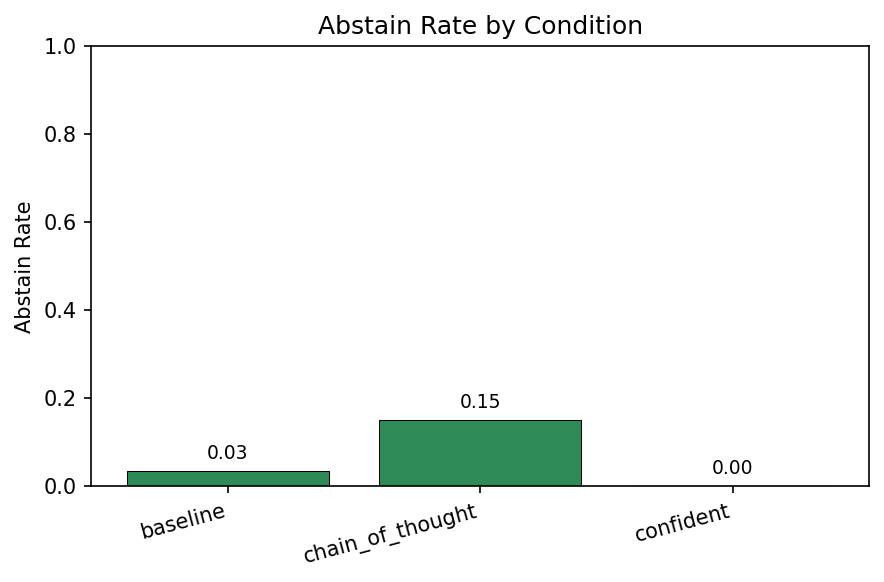
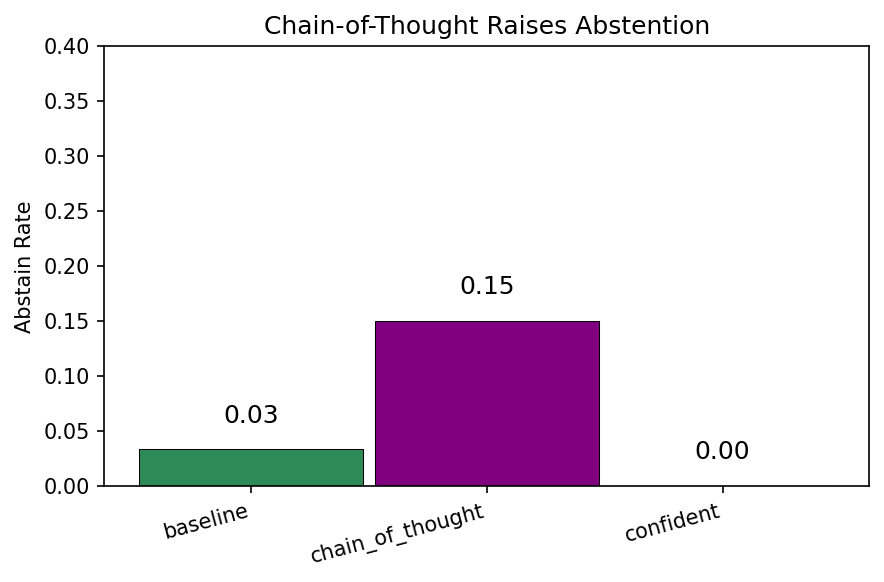
Style charts for stronger visual impact
Update analyze.py chart styling with stronger titles, highlighted condition colors, wider bars, larger value labels, and tighter y-axis scaling for key rates. Regenerate plots from existing scored.csv and sync refreshed chart assets to docs/images for README and Pages.

Made-with: Cursor

diff --git a/src/analyze.py b/src/analyze.py
@@ -39,16 +39,33 @@ def compute_summary(df):
     return pd.DataFrame(rows)
 
 
-def plot_bar(ax, conditions, values, title, ylabel, color="steelblue"):
+def plot_bar(ax, conditions, values, title, ylabel, color="steelblue", bar_width=0.8, y_max=1.0):
     x = range(len(conditions))
-    ax.bar(x, values, color=color, edgecolor="black", linewidth=0.5)
+    if isinstance(color, (list, tuple)):
+        colors = color
+    else:
+        colors = [color] * len(conditions)
+    ax.bar(x, values, width=bar_width, color=colors, edgecolor="black", linewidth=0.5)
     ax.set_xticks(x)
     ax.set_xticklabels(conditions, rotation=15, ha="right")
     ax.set_ylabel(ylabel)
     ax.set_title(title)
-    ax.set_ylim(0, 1.0)
+    ax.set_ylim(0, y_max)
+    ax.grid(False)
     for i, v in enumerate(values):
-        ax.text(i, v + 0.02, f"{v:.2f}", ha="center", va="bottom", fontsize=9)
+        ax.text(i, v + 0.02, f"{v:.2f}", ha="center", va="bottom", fontsize=12)
+
+
+def hallucination_colors(conditions):
+    return ["red" if c == "confident" else "orange" for c in conditions]
+
+
+def accuracy_colors(conditions):
+    return ["green" if c == "baseline" else "steelblue" for c in conditions]
+
+
+def abstain_colors(conditions):
+    return ["purple" if c == "chain_of_thought" else "seagreen" for c in conditions]
 
 
 def main() -> None:
@@ -84,9 +101,35 @@ def main() -> None:
     conditions = summary["condition"].tolist()
 
     fig, axes = plt.subplots(1, 3, figsize=(12, 4))
-    plot_bar(axes[0], conditions, summary["accuracy"].tolist(), "Accuracy by Condition", "Accuracy", "steelblue")
-    plot_bar(axes[1], conditions, summary["hallucination_rate"].tolist(), "Hallucination Rate by Condition", "Hallucination Rate", "coral")
-    plot_bar(axes[2], conditions, summary["abstain_rate"].tolist(), "Abstain Rate by Condition", "Abstain Rate", "seagreen")
+    plot_bar(
+        axes[0],
+        conditions,
+        summary["accuracy"].tolist(),
+        "Baseline Delivers Highest Accuracy",
+        "Accuracy",
+        accuracy_colors(conditions),
+        bar_width=0.95,
+    )
+    plot_bar(
+        axes[1],
+        conditions,
+        summary["hallucination_rate"].tolist(),
+        "Forcing Confidence Doubles Hallucination Rate",
+        "Hallucination Rate",
+        hallucination_colors(conditions),
+        bar_width=0.95,
+        y_max=0.4,
+    )
+    plot_bar(
+        axes[2],
+        conditions,
+        summary["abstain_rate"].tolist(),
+        "Chain-of-Thought Raises Abstention",
+        "Abstain Rate",
+        abstain_colors(conditions),
+        bar_width=0.95,
+        y_max=0.4,
+    )
 
     plt.tight_layout()
     acc_path = args.plots_dir / "accuracy_by_condition.png"
@@ -94,19 +137,45 @@ def main() -> None:
     abst_path = args.plots_dir / "abstain_rate_by_condition.png"
 
     fig1, ax1 = plt.subplots(figsize=(6, 4))
-    plot_bar(ax1, conditions, summary["accuracy"].tolist(), "Accuracy by Condition", "Accuracy", "steelblue")
+    plot_bar(
+        ax1,
+        conditions,
+        summary["accuracy"].tolist(),
+        "Baseline Delivers Highest Accuracy",
+        "Accuracy",
+        accuracy_colors(conditions),
+        bar_width=0.95,
+    )
     plt.tight_layout()
     fig1.savefig(acc_path, dpi=150, bbox_inches="tight")
     plt.close(fig1)
 
     fig2, ax2 = plt.subplots(figsize=(6, 4))
-    plot_bar(ax2, conditions, summary["hallucination_rate"].tolist(), "Hallucination Rate by Condition", "Hallucination Rate", "coral")
+    plot_bar(
+        ax2,
+        conditions,
+        summary["hallucination_rate"].tolist(),
+        "Forcing Confidence Doubles Hallucination Rate",
+        "Hallucination Rate",
+        hallucination_colors(conditions),
+        bar_width=0.95,
+        y_max=0.4,
+    )
     plt.tight_layout()
     fig2.savefig(hall_path, dpi=150, bbox_inches="tight")
     plt.close(fig2)
 
     fig3, ax3 = plt.subplots(figsize=(6, 4))
-    plot_bar(ax3, conditions, summary["abstain_rate"].tolist(), "Abstain Rate by Condition", "Abstain Rate", "seagreen")
+    plot_bar(
+        ax3,
+        conditions,
+        summary["abstain_rate"].tolist(),
+        "Chain-of-Thought Raises Abstention",
+        "Abstain Rate",
+        abstain_colors(conditions),
+        bar_width=0.95,
+        y_max=0.4,
+    )
     plt.tight_layout()
     fig3.savefig(abst_path, dpi=150, bbox_inches="tight")
     plt.close(fig3)
